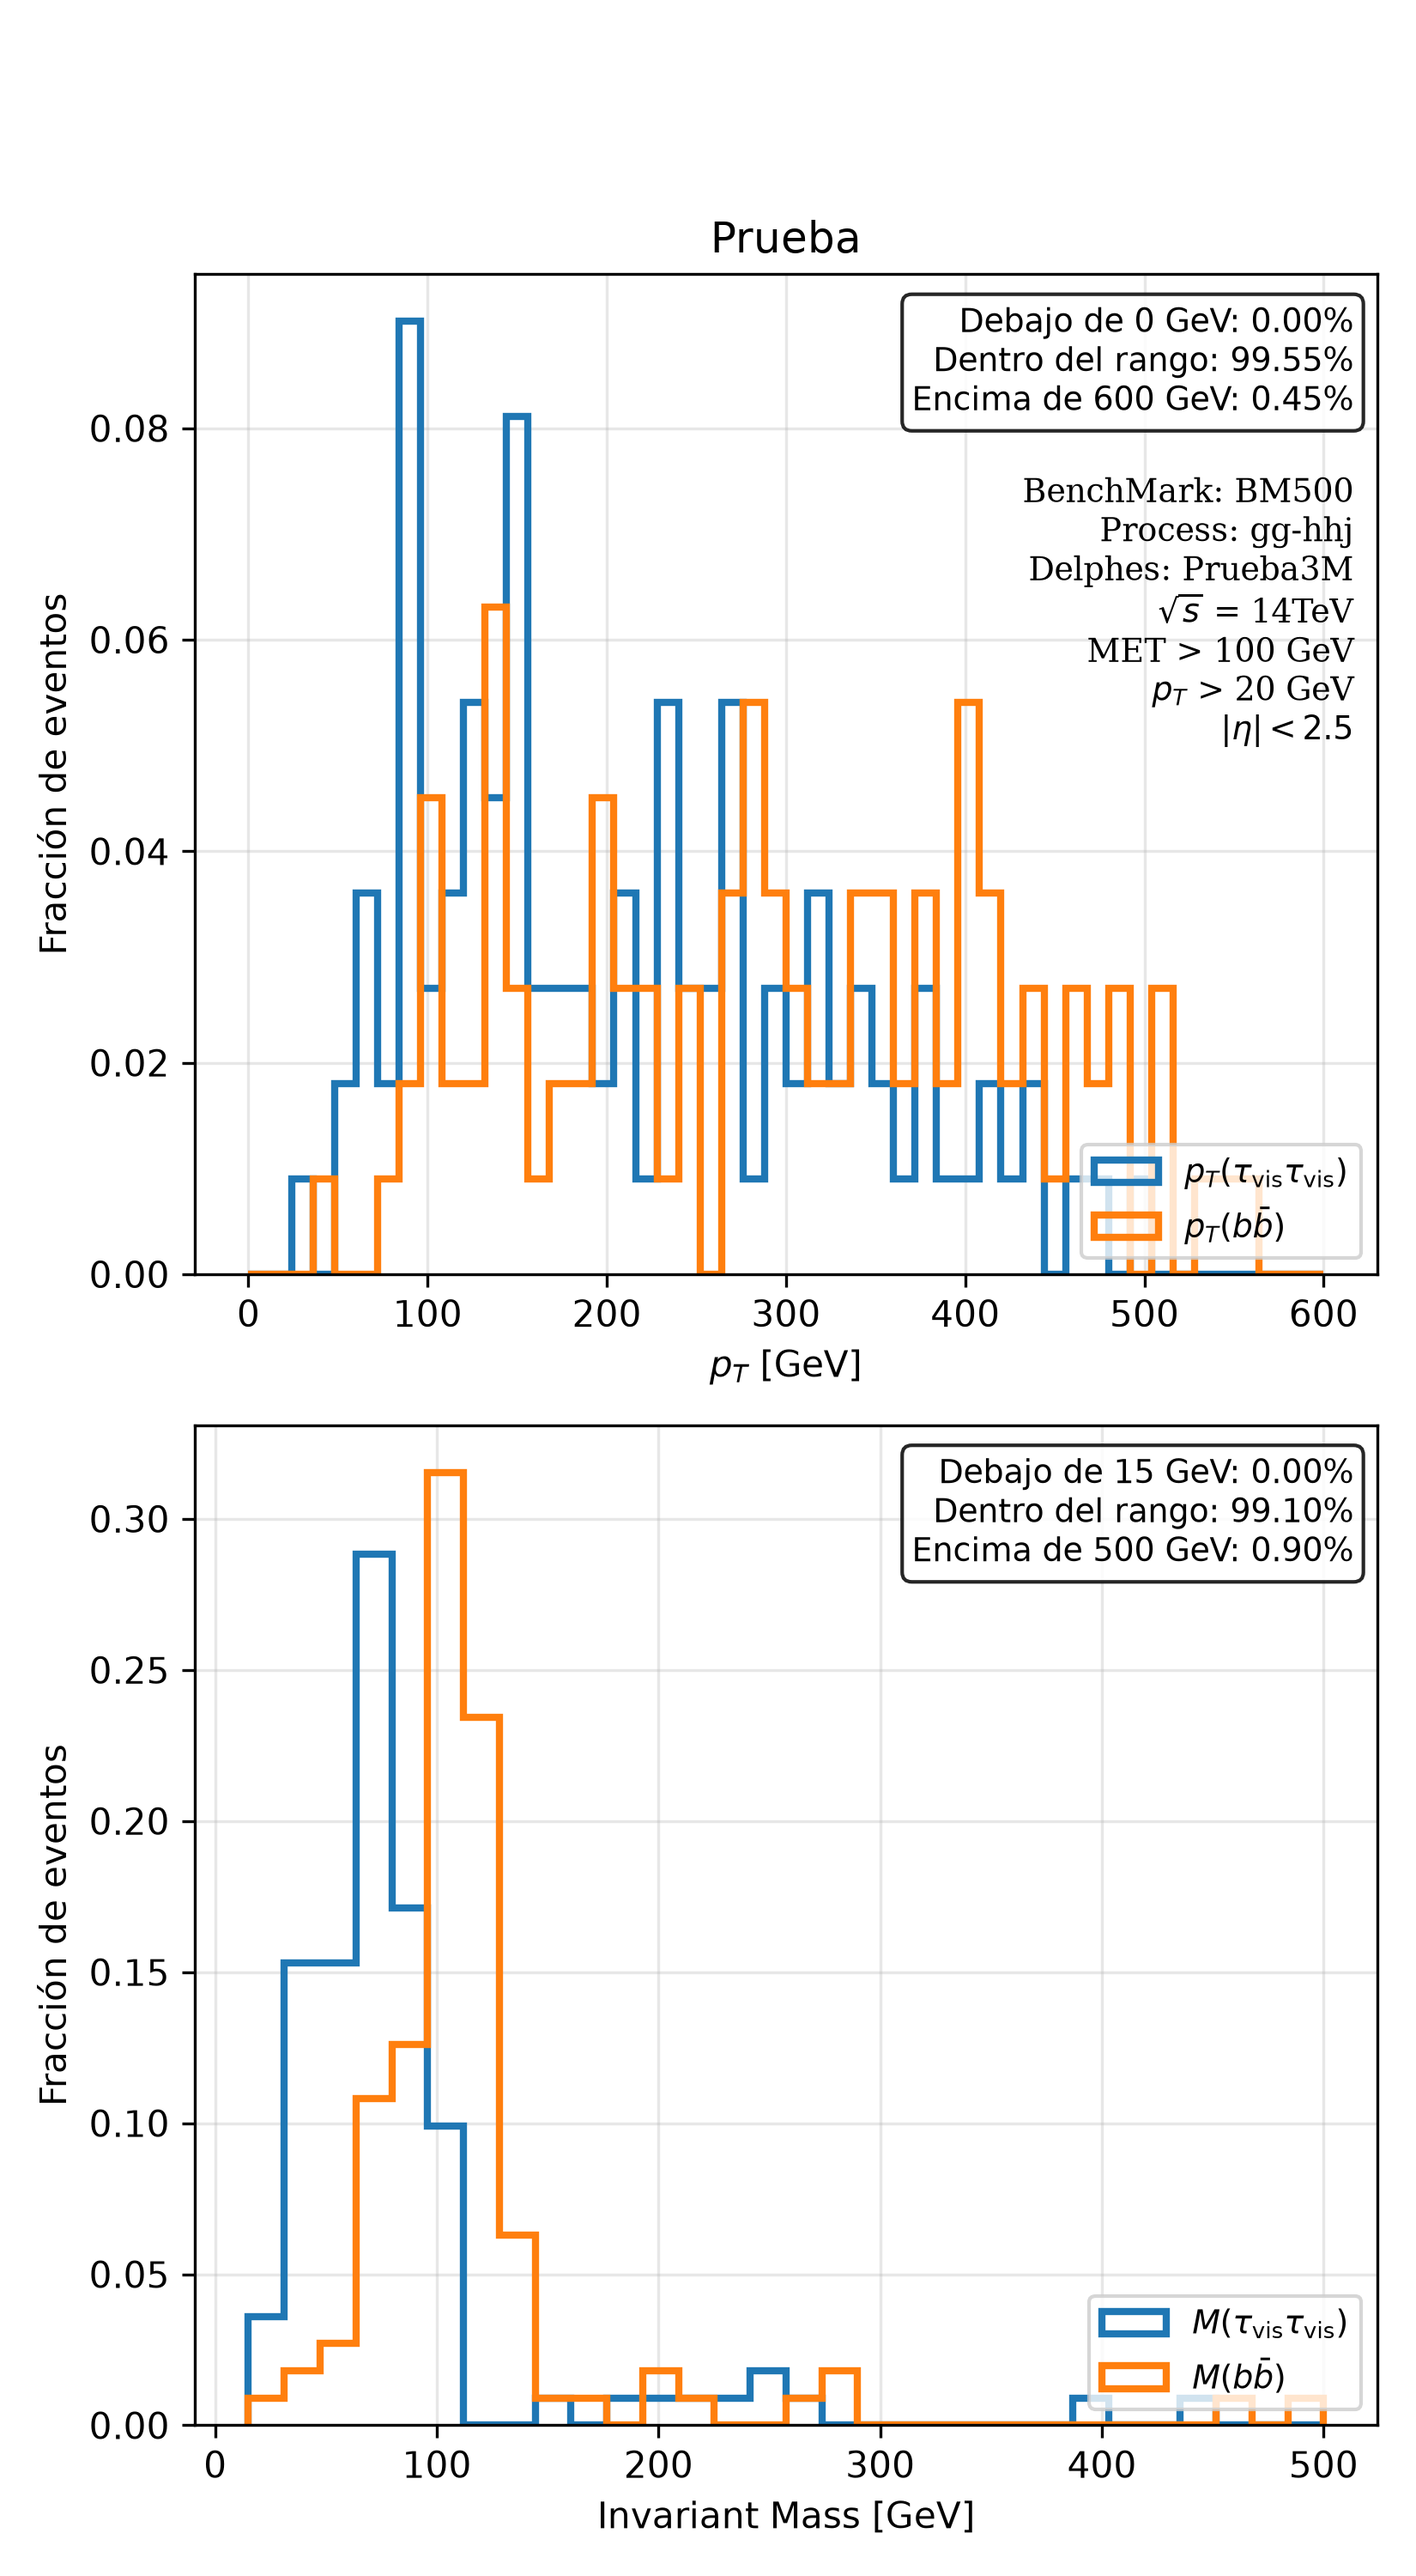
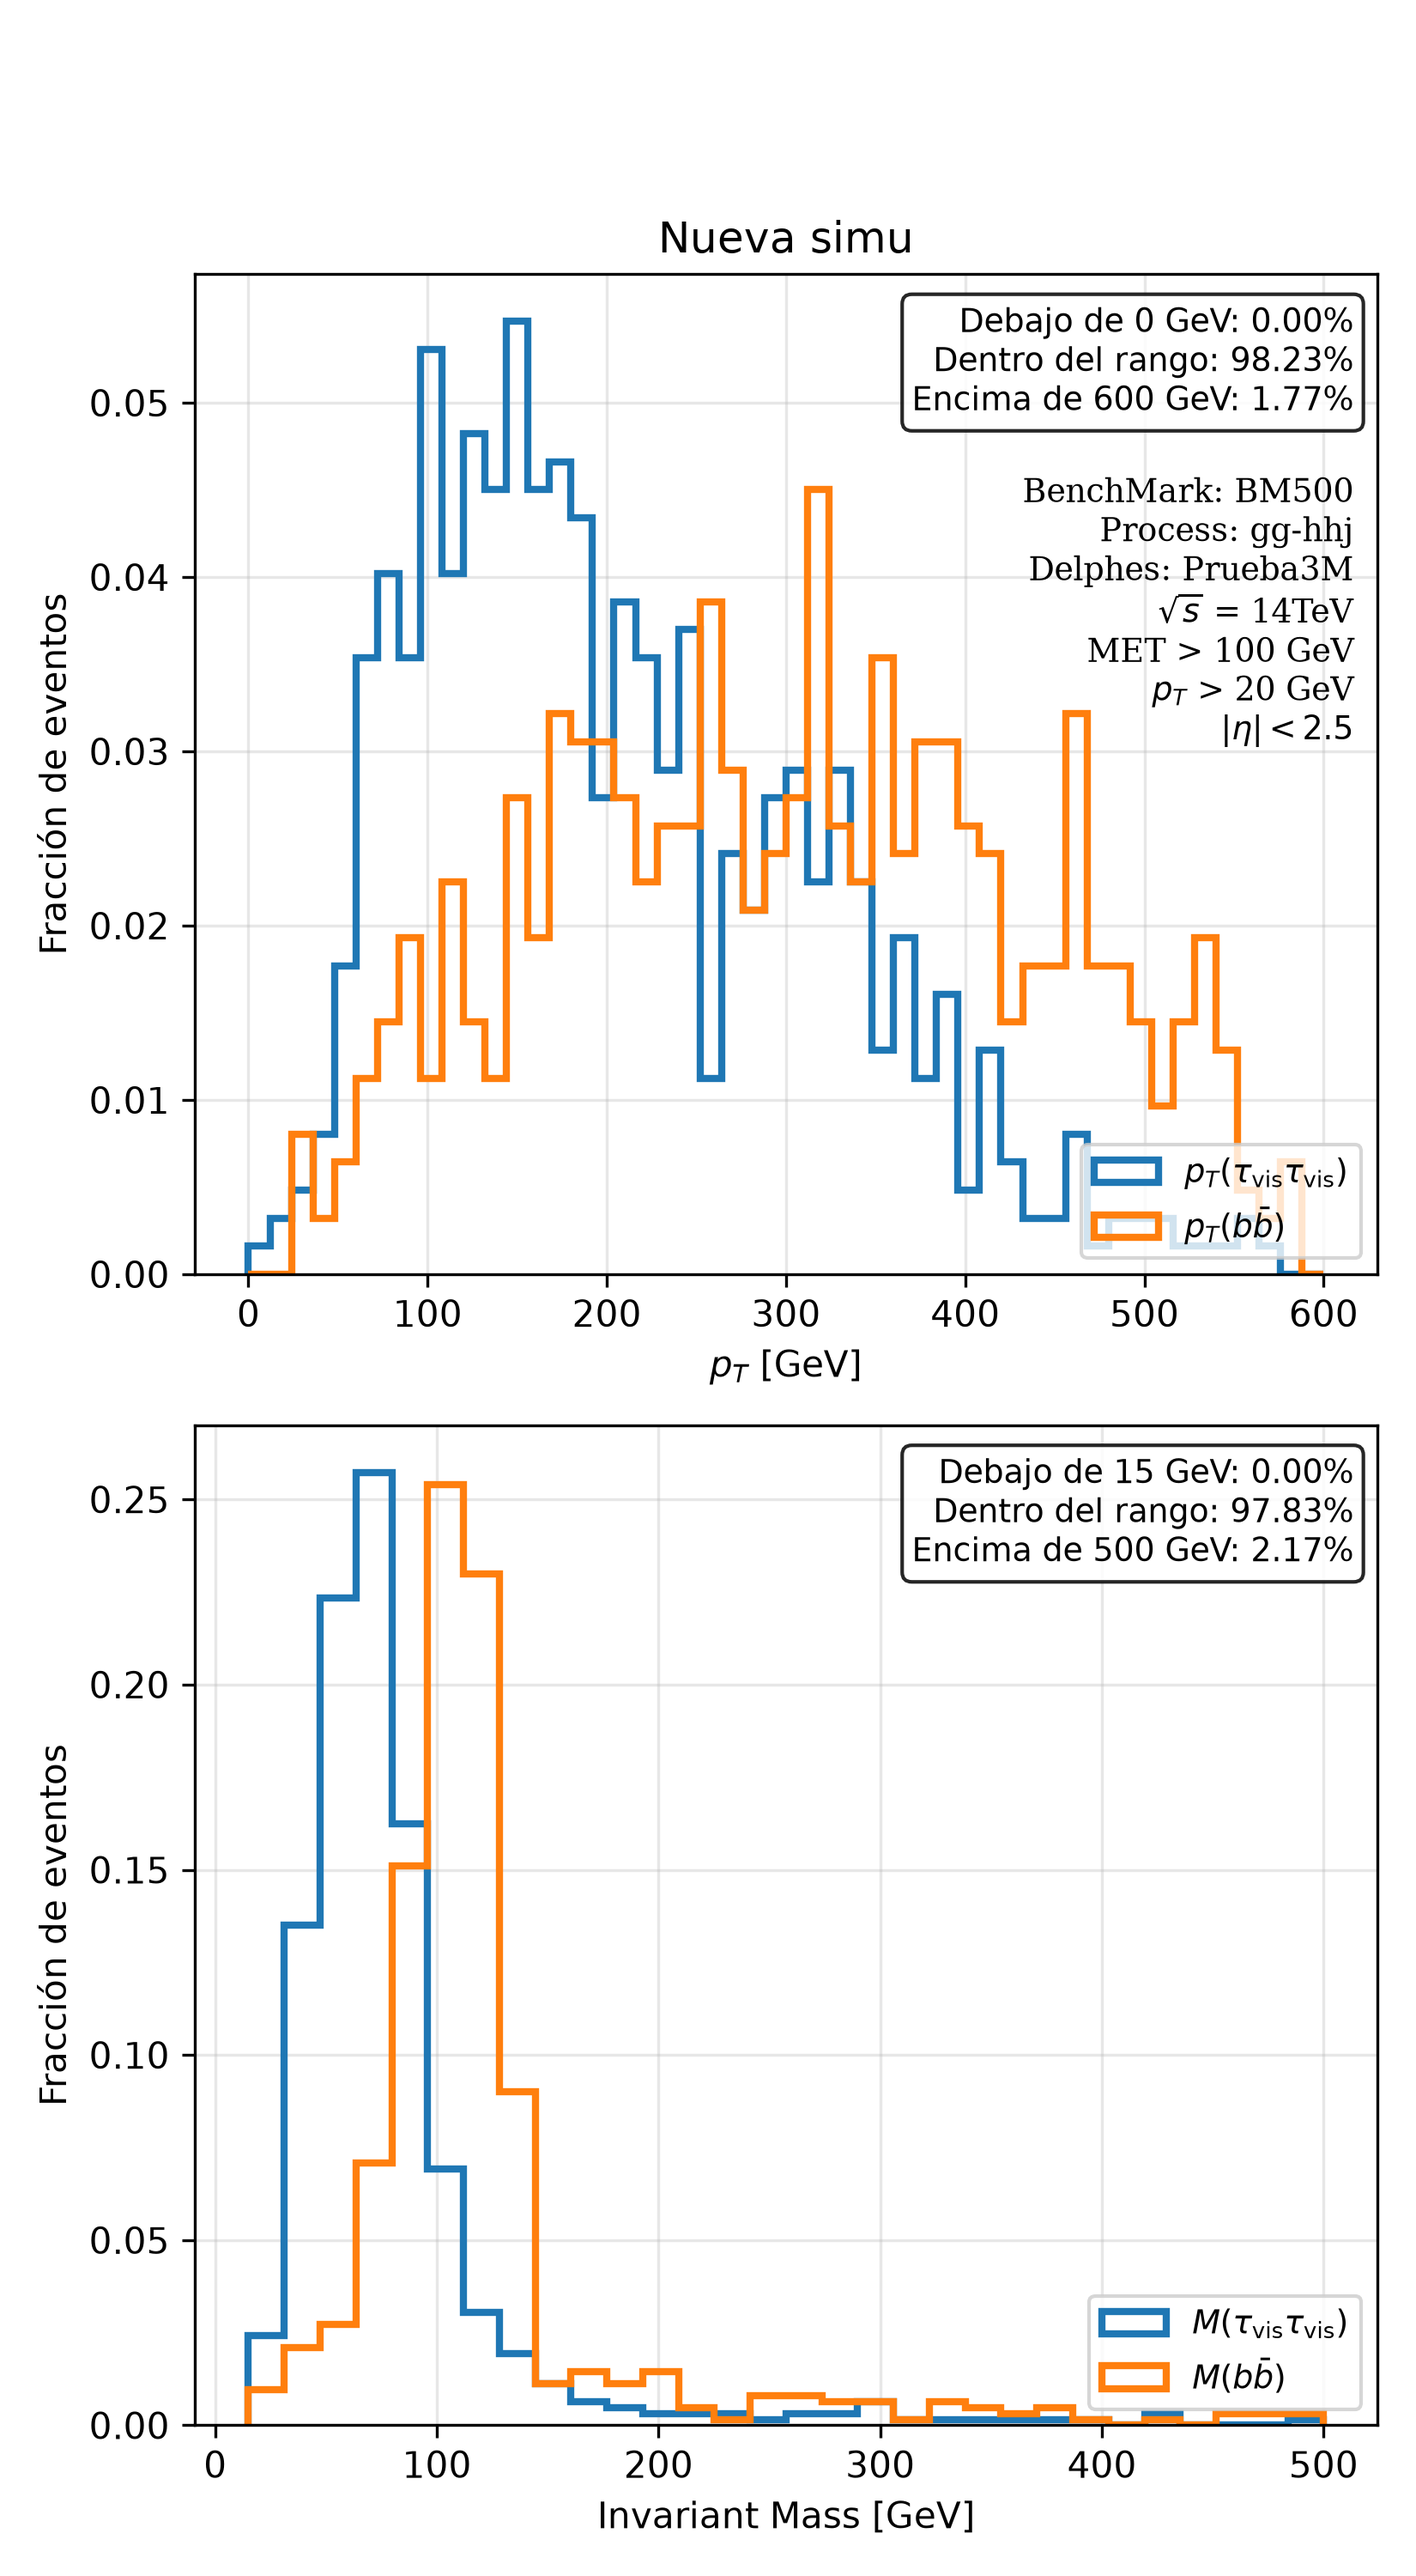
Me tiene los huevos llenos esto

diff --git a/RecAnalysis/scripts/ROOT_analyzer.py b/RecAnalysis/scripts/ROOT_analyzer.py
@@ -32,7 +32,7 @@ Pre_eta_jet = 2.5
 Pre_PT_track = 0      # GeV
 Pre_eta_track = 2.5
 
-Delphes = "HL-LHC"
+Delphes = "Prueba3M"
 Energy_label = "14TeV"
 BenchMark = "BM500"
 process = "gg-hhj"
@@ -44,8 +44,8 @@ process = "gg-hhj"
 #}
 
 rutas = {
-   "LQ - gg > hhj": "/mnt/R5/gbarco/BM500_gghhj_1800k/ROOTs/output_ggHH_bbtata_BP1_81_*_delphes_events.root",
-   "Nueva simu":  "/mnt/R5/gbarco/BM500_gghhj-3M/ROOTs/output_gg_hhj-3M_116_*_delphes_events.root",
+#   "LQ - gg > hhj": "/mnt/R5/gbarco/BM500_gghhj_1800k/ROOTs/output_ggHH_bbtata_BP1_81_*_delphes_events.root",
+   "Nueva simu":  "/mnt/R5/gbarco/BM500_gghhj-3M/ROOTs/output_gg_hhj-3M_116_29_delphes_events.root",
 #  "BG - pp > tthj": "/mnt/R5/gbarco/pp_tthj_1800k/ROOTs/output_pp_tthj_h-tata_1800k_104_*_delphes_events.root", 
 }
 
